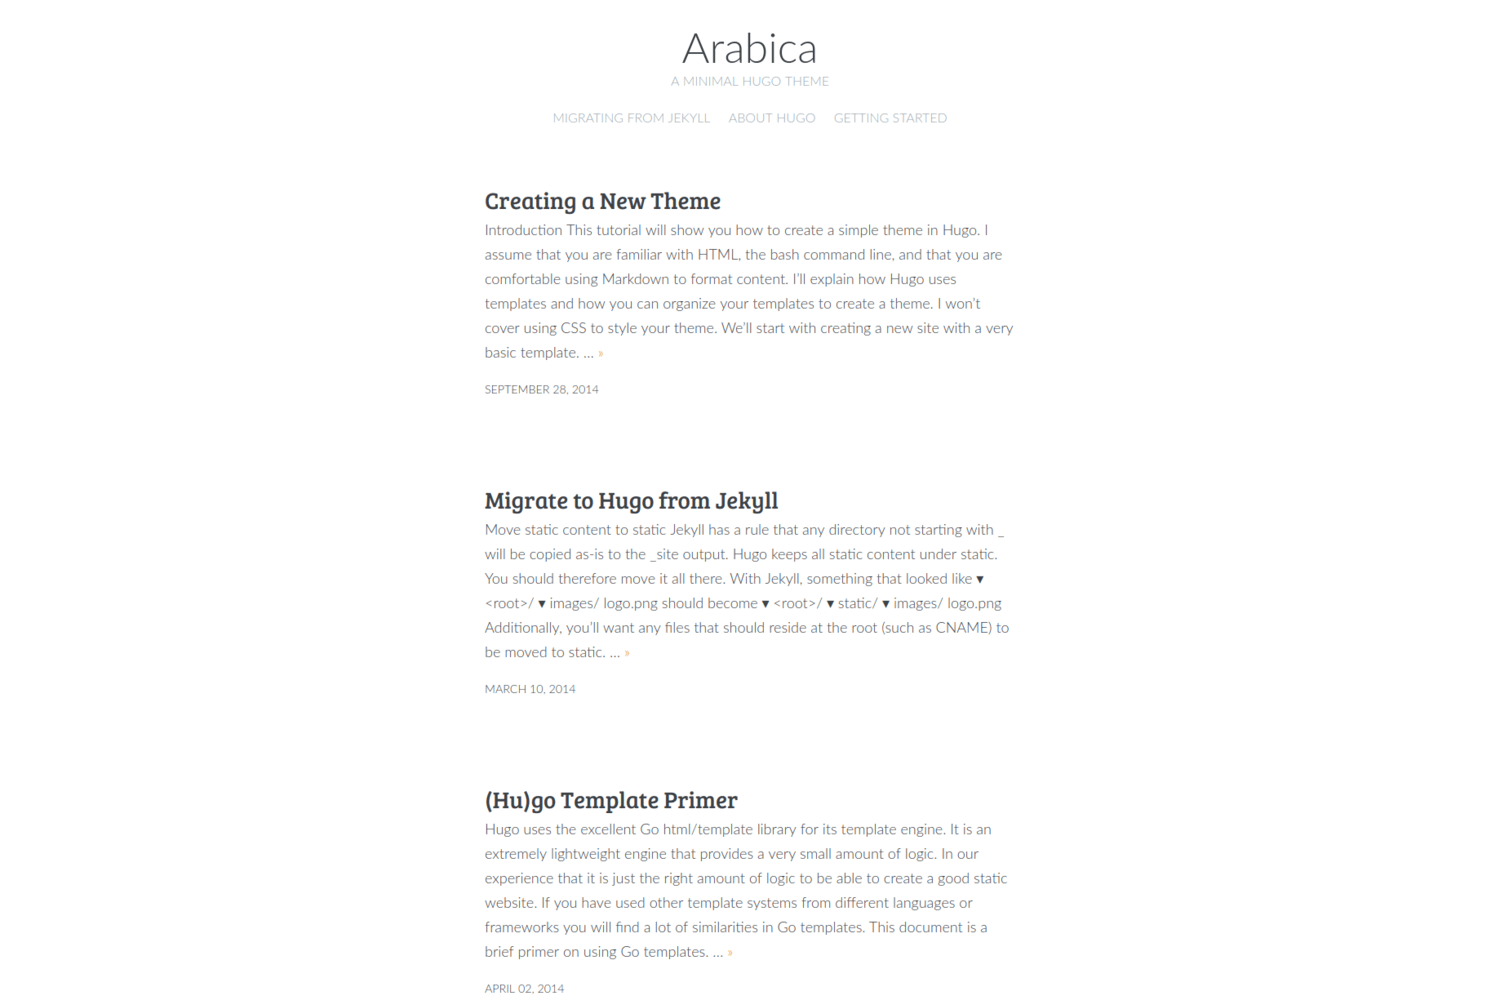
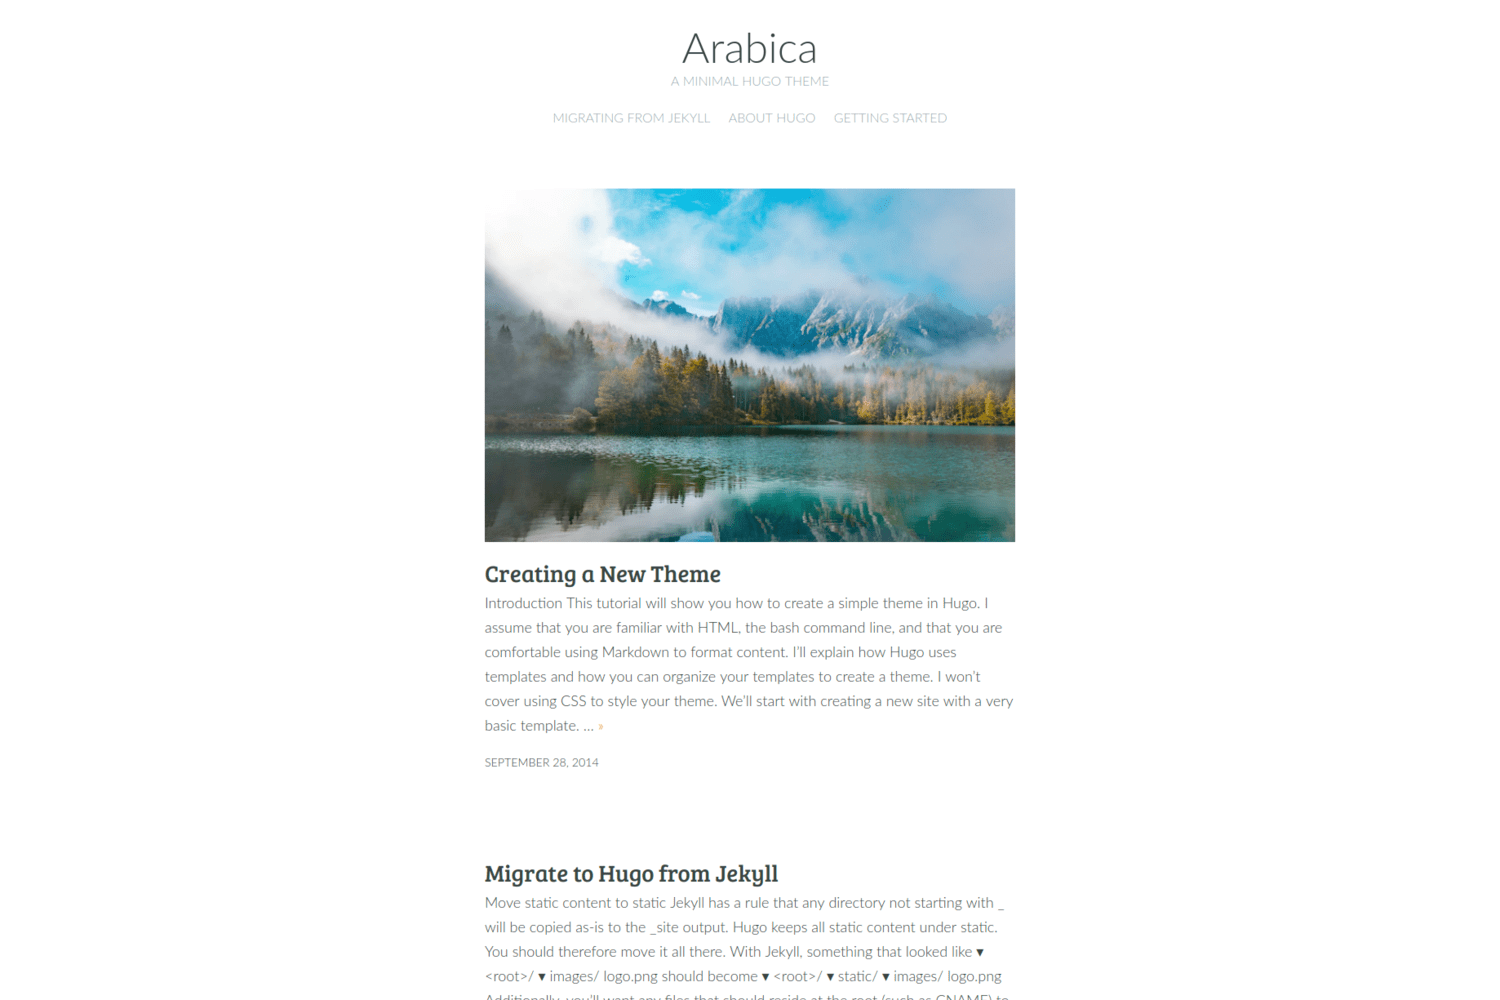
Download themes instead of committing them into the repo

Changed region(s): [[0.3067, 0.186, 0.6747, 1.0]]

diff --git a/themes/arabica/layouts/post/single.html b/themes/arabica/layouts/post/single.html
@@ -3,6 +3,9 @@
 <main class="content" role="main">
   <article class="post">
     <header class="post-header">
+      {{ with .Params.image }}
+        <img src="{{ . }}"></img>
+      {{ end }}
       <h2 class="post-title">{{ .Title }}</h2>
       <section class="post-meta">
         <time class="post-date">{{ .Date.Format (.Site.Params.dateFormatToUse | default "January 02, 2006") }}</time>

diff --git a/themes/arabica/layouts/post/summary.html b/themes/arabica/layouts/post/summary.html
@@ -1,5 +1,8 @@
 <article class="post">
 	<header class="post-header">
+    {{ with .Params.image }}
+      <img src="{{ . }}"></img>
+    {{ end }}
 		<h2 class="post-title"><a href="{{ .URL }}">{{ .Title }}</a></h2>
 	</header>
 	<section class="post-excerpt">

diff --git a/themes/arabica/README.md b/themes/arabica/README.md
@@ -39,10 +39,13 @@ theme = "arabica"
 
 [params]
     description = "A minimal Hugo theme"
+    dateFormatToUse = "2006-01-02"
     replaceGoogleFonts = "fonts.loli.net"
     twitter = "example"
     facebook = "example"
 ```
+
+You can add `image` front matter to a post, see [example post](https://github.com/nirocfz/arabica/blob/master/exampleSite/content/post/creating-a-new-theme.md).
 
 Thanks
 

diff --git a/themes/arabica/exampleSite/content/post/creating-a-new-theme.md b/themes/arabica/exampleSite/content/post/creating-a-new-theme.md
@@ -5,6 +5,7 @@ linktitle: Creating a New Theme
 next: /tutorials/github-pages-blog
 prev: /tutorials/automated-deployments
 title: Creating a New Theme
+image: "https://images.unsplash.com/photo-1538729247193-1256701f9ef5?ixlib=rb-0.3.5&ixid=eyJhcHBfaWQiOjEyMDd9&s=ff548421755d700a1fdfeec098c32345&auto=format&fit=crop&w=1350&q=80"
 weight: 10
 ---
 
